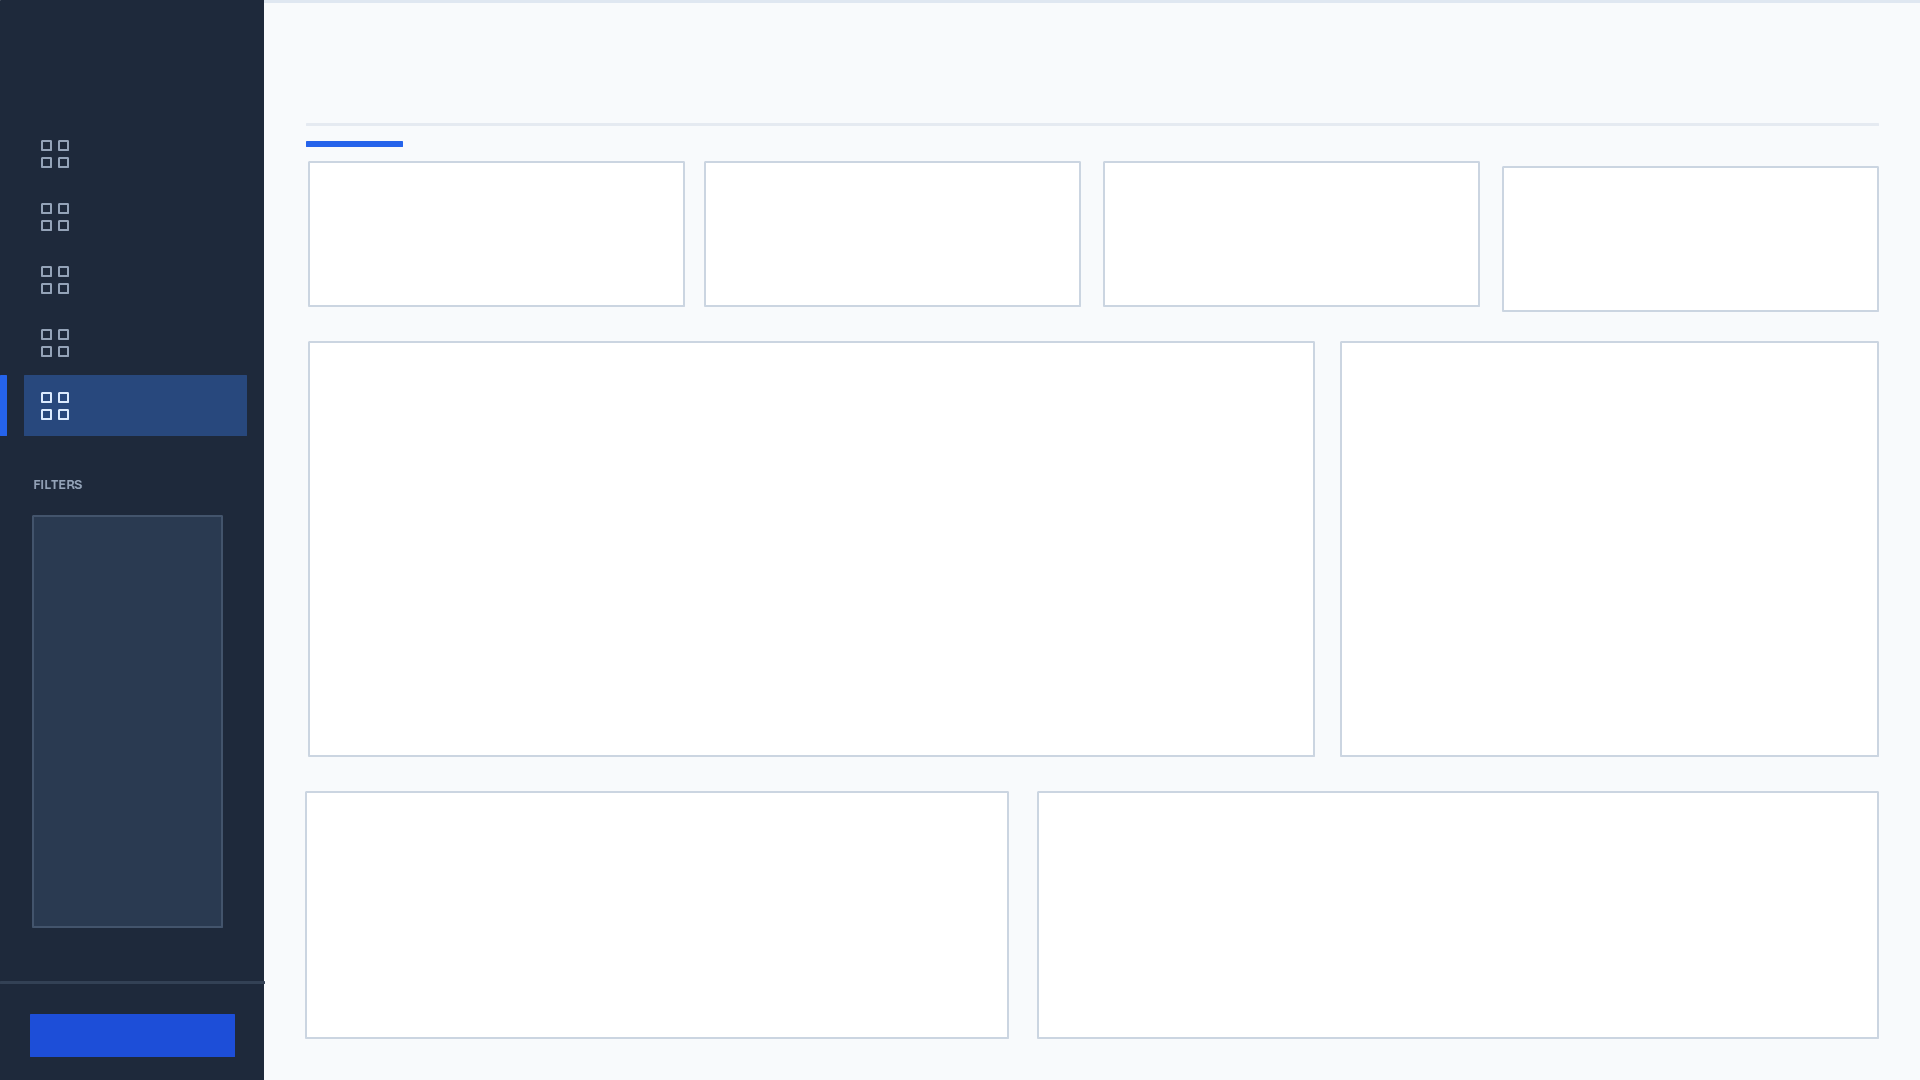
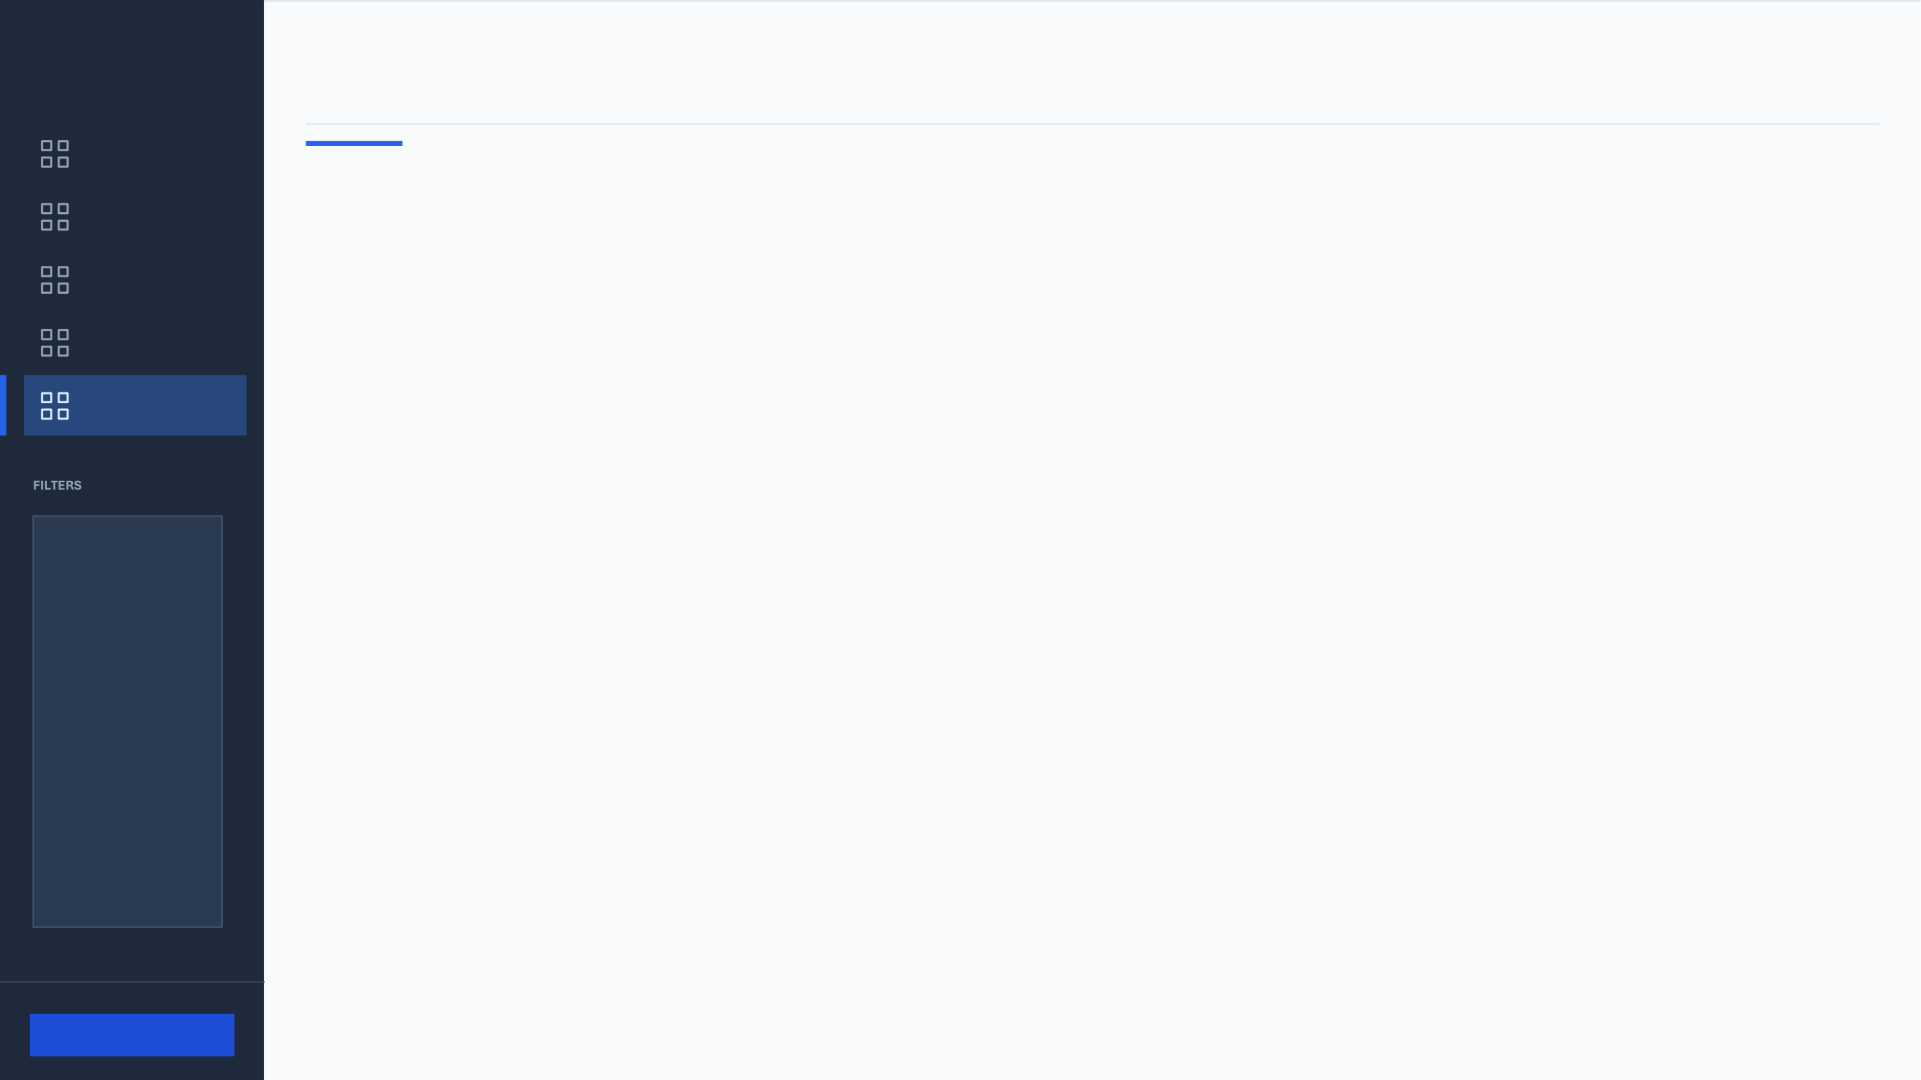
Add Operations Dashboard

diff --git a/docs/Operations.md b/docs/Operations.md
@@ -90,24 +90,18 @@ Mục đích: theo dõi rủi ro giao hàng trễ theo thời gian.
 
 ### Chart 4
 
-Title: **Hiệu suất vận hành theo thành phố khác nhau ra sao?**
+Title: **Quy mô nhân sự và doanh thu các thành phố ra sao?**
 
-Visual: Matrix hoặc Table
+Visual: Lollipop Chart (Deneb / Vega-Lite)
 
 | Bucket | Field/Measure |
 |---|---|
-| Rows | `stores[city]` |
-| Values | `Total Revenue`, `Total Orders`, `Shipment Count`, `Late Shipment Rate`, `Delivered Shipment Rate`, `Total Employees`, `Average Salary` |
+| Y-axis | `stores[city]` |
+| X-axis (Độ dài) | `Total Employees` |
+| Point Size (Độ lớn) | `Total Revenue` |
+| Tooltip | `Total Orders`, `Average Salary`, `Late Shipment Rate` |
 
-Mục đích: so sánh hiệu suất vận hành giữa các thành phố/cửa hàng.
-
-Chart thay thế:
-
-- Title: **Thành phố nào có tỷ lệ giao hàng trễ cao nhất?**
-- Visual: Bar chart
-- Y-axis: `stores[city]`
-- X-axis: `Late Shipment Rate`
-- Tooltip: `Late Shipments`, `Shipment Count`
+Mục đích: So sánh quy mô vận hành của các thành phố.
 
 ## 6. Filters / Slicers
 